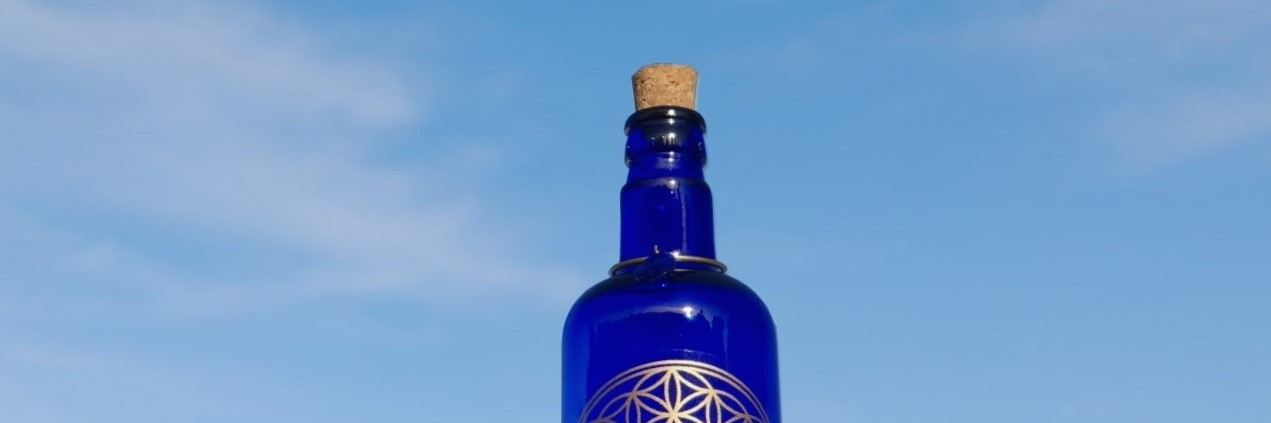
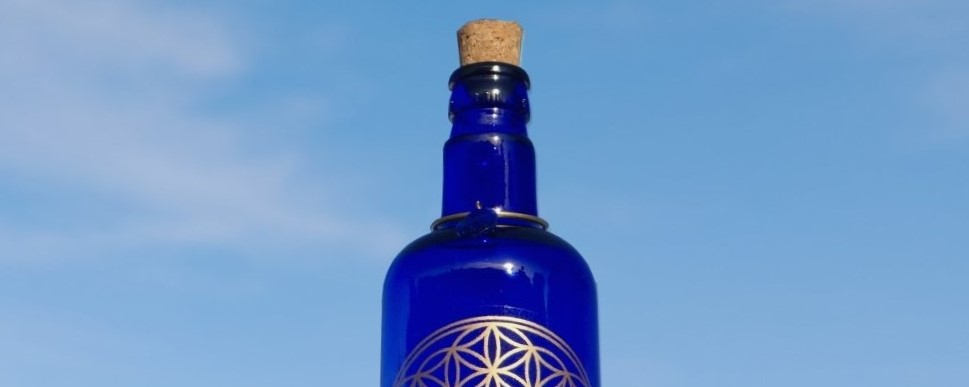
mas modificacion index

diff --git a/css/style.css b/css/style.css
@@ -171,30 +171,17 @@ button.navbar-toggler:focus {
     opacity: 1; } }
 
 /* INDEX */
-@media (min-width: 992px) {
-  .carousel.slide .carousel-inner .carousel-item.active.mobile {
-    display: none; }
-  .carousel.slide .carousel-inner .carousel-item.active.pc {
-    display: show; } }
-
-@media (max-width: 992px) {
-  .carousel.slide .carousel-inner .carousel-item.active.mobile {
-    display: show; }
-  .carousel.slide .carousel-inner .carousel-item.active.pc {
-    display: none; } }
-
 div#index {
   margin: 0 auto;
   width: fit-content;
   position: absolute;
   right: 15%;
-  bottom: 40%;
+  bottom: 35%;
   left: 15%;
   z-index: 5;
   text-align: center; }
   div#index h1#index {
     color: #012e67;
-    padding: 0.5rem 1rem;
     font-weight: 100;
     border-radius: 0.5rem;
     animation-name: aparecer;

diff --git a/index.html b/index.html
@@ -52,10 +52,8 @@
  
     <div id="carousel-index" class="carousel slide" data-bs-ride="carousel">
         <div class="carousel-inner">
-            <div class="carousel-item active mobile">
-                <img src="img/bg-index_mobile.jpg" class="d-block w-100" alt="botella azul para solarizar">
-            </div>
-            <div class="carousel-item active pc">
+            
+            <div class="carousel-item active">
                 <img src="img/bg-index_pc.jpg" class="d-block w-100" alt="botella azul para solarizar">
             </div>
             <div id="index">
